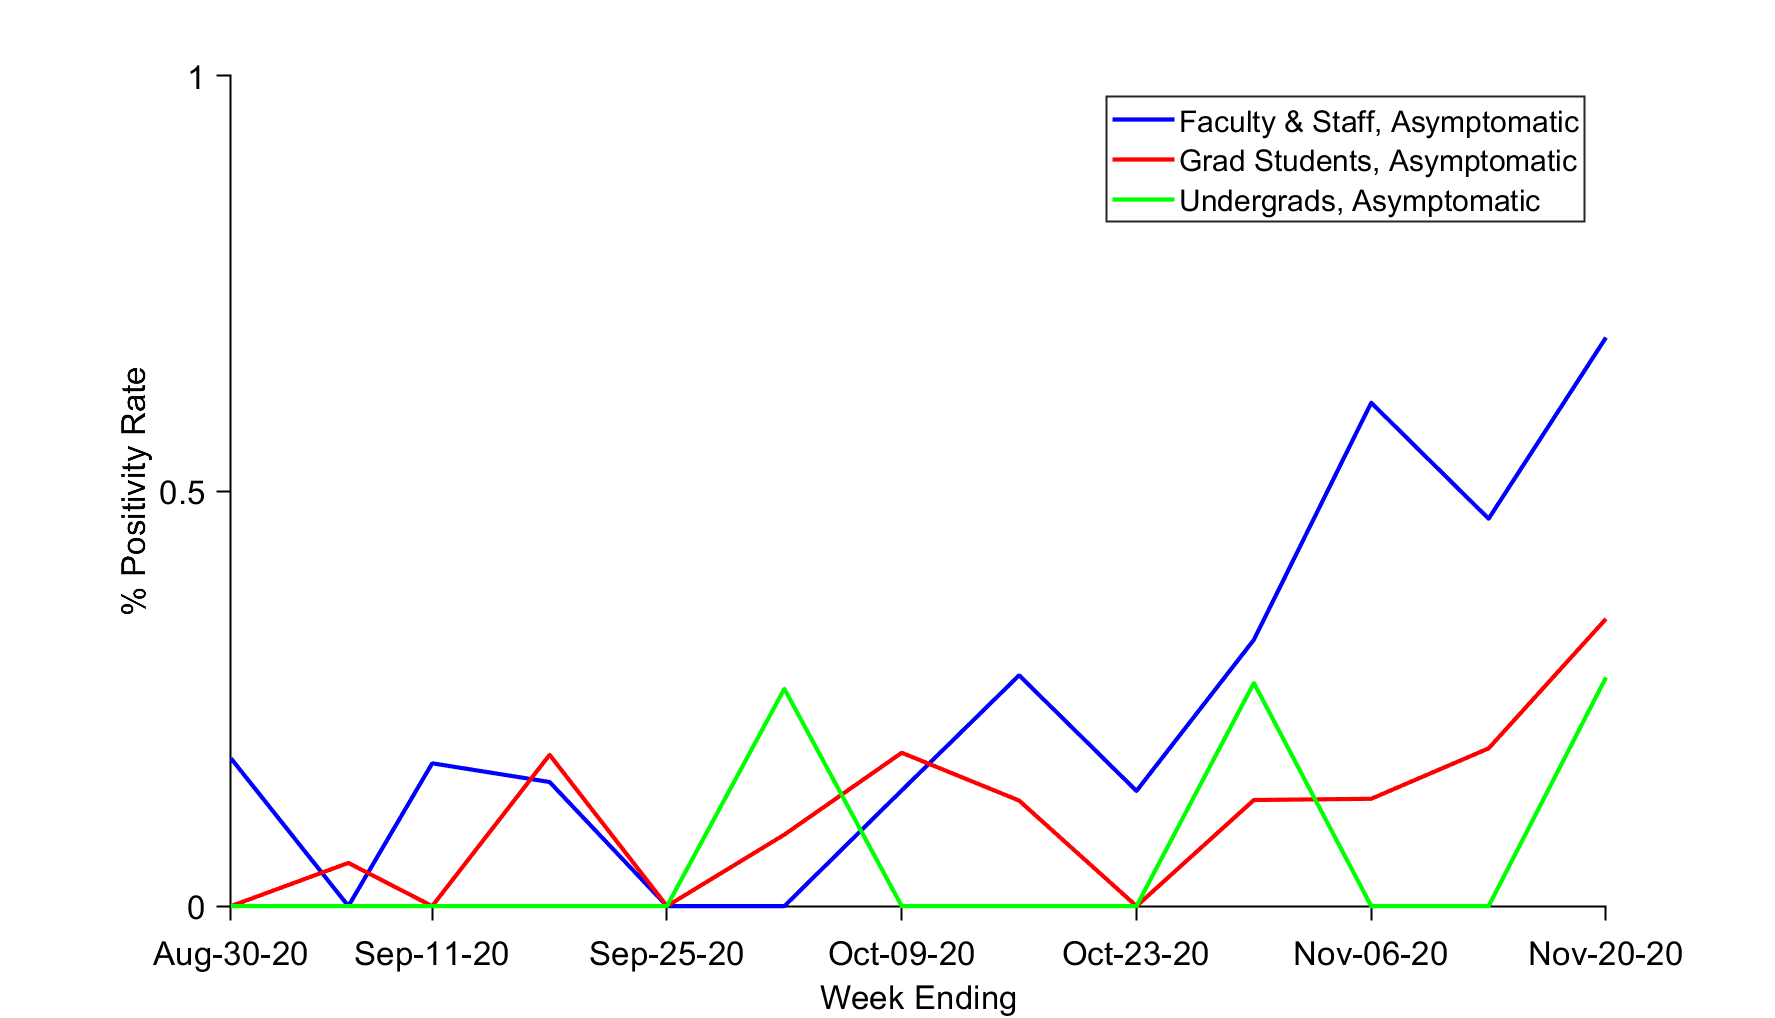
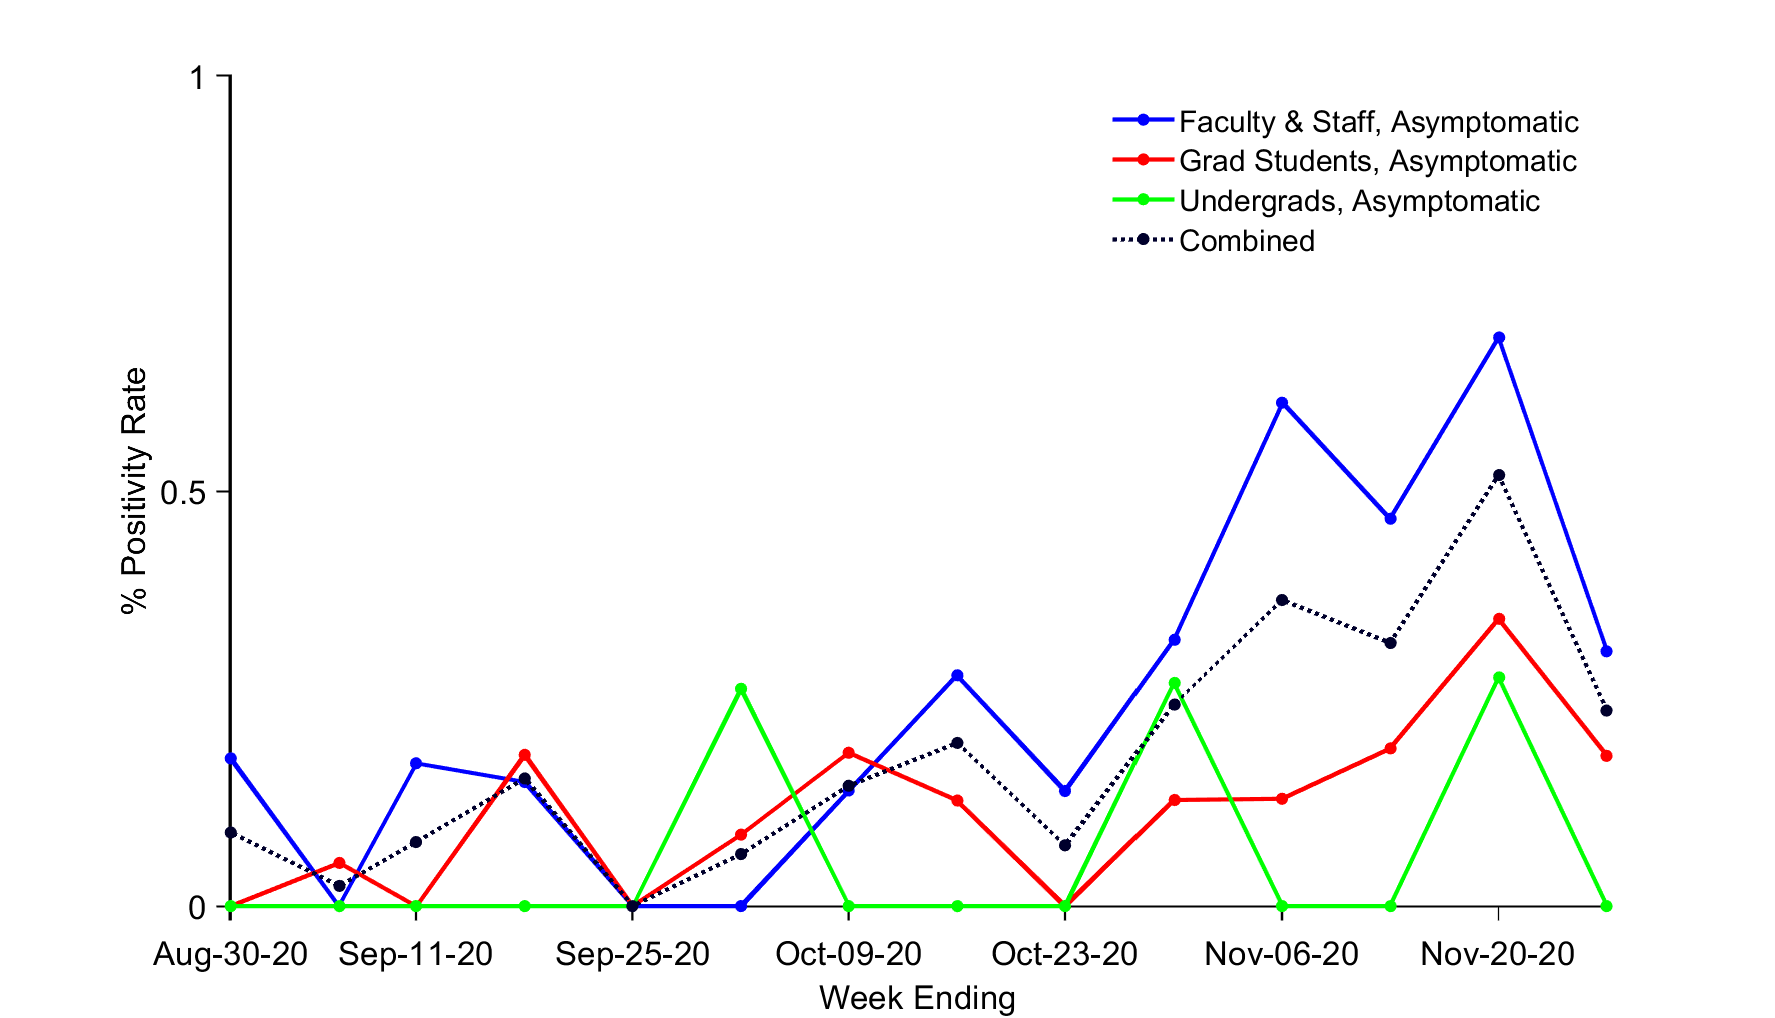
12/2 update and added combined data to plot

diff --git a/generate_plots.m b/generate_plots.m
@@ -12,23 +12,43 @@ function generate_plots(varargin)
         return
     end
     figure('Position',P.figure_position);
-    colors = distinguishable_colors(length(csv_files));
-    for i=1:length(csv_files)
-        [~,names{i},~] = fileparts(csv_files{i});         
-        T{i} = read_covid_dashboard_table(csv_files{i});
-        dates{i} =  T{i}.WeekEnding;
-        n_tests{i} = T{i}.Tests;
-        n_pos{i} = T{i}.PositiveCases;
+    colors = distinguishable_colors(length(csv_files)+1);
+    for i=1:length(csv_files)+1
+        if i>length(csv_files)
+            if ( length(unique(cat(1,dates{:}))) == length(dates{1}) ) && numel(unique(cellfun(@height,T)))==1
+                dates{i} = dates{1};
+                n_tests{i} = sum([n_tests{:}],2);
+                n_pos{i} = sum([n_pos{:}],2);     
+                names{i} = 'Combined';
+            else
+                warning('Dates are not the same in all tables. Will not combine them.');
+                continue
+            end
+        else
+            [~,names{i},~] = fileparts(csv_files{i});         
+            T{i} = read_covid_dashboard_table(csv_files{i});
+            dates{i} =  T{i}.WeekEnding;
+            n_tests{i} = T{i}.Tests;
+            n_pos{i} = T{i}.PositiveCases;
+        end
         if params.errorbar
             [~,l,u] = bino_confidence(n_tests{i},n_pos{i});
             l(isnan(l))=0;
             h(i) = shadedErrorBar(datenum(dates{i}),100*n_pos{i}./n_tests{i},100*[u l]');hold on;
             h(i).mainLine.Color = colors(i,:);
-            h(i).maineLine.LineWidth=2;
+            h(i).mainLine.LineWidth=2;
+            h(i).mainLine.Marker='.';
+            h(i).mainLine.MarkerSize=20;
             h(i).patch.FaceAlpha = 0.5;
             h(i).patch.FaceColor = colors(i,:);
+            if i>length(csv_files)
+                h(i).mainLine.LineStyle=':';
+            end
         else
-            h(i) = plot(datenum(dates{i}),100*n_pos{i}./n_tests{i},'color',colors(i,:),'LineWidth',2);hold on;            
+            h(i) = plot(datenum(dates{i}),100*n_pos{i}./n_tests{i},'color',colors(i,:),'LineWidth',2,'Marker','.','MarkerSize',20);hold on;   
+            if i>length(csv_files)
+                h(i).LineStyle=':';
+            end
         end
     end
     if params.errorbar
